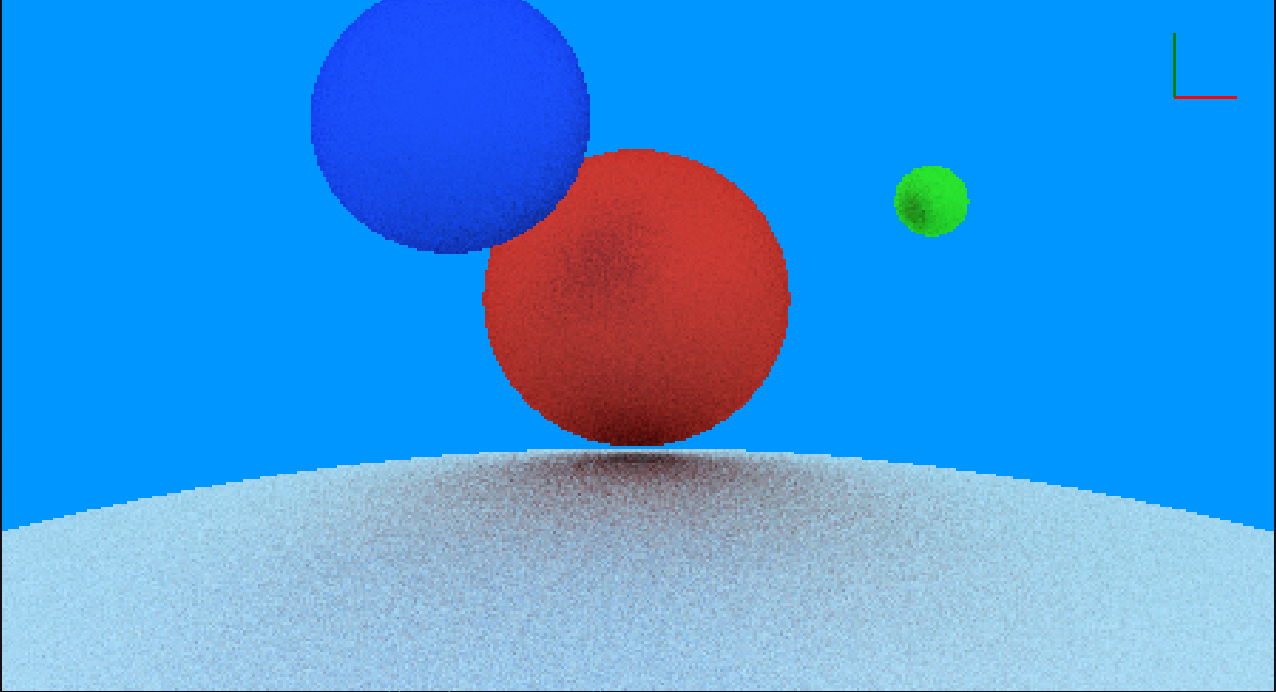
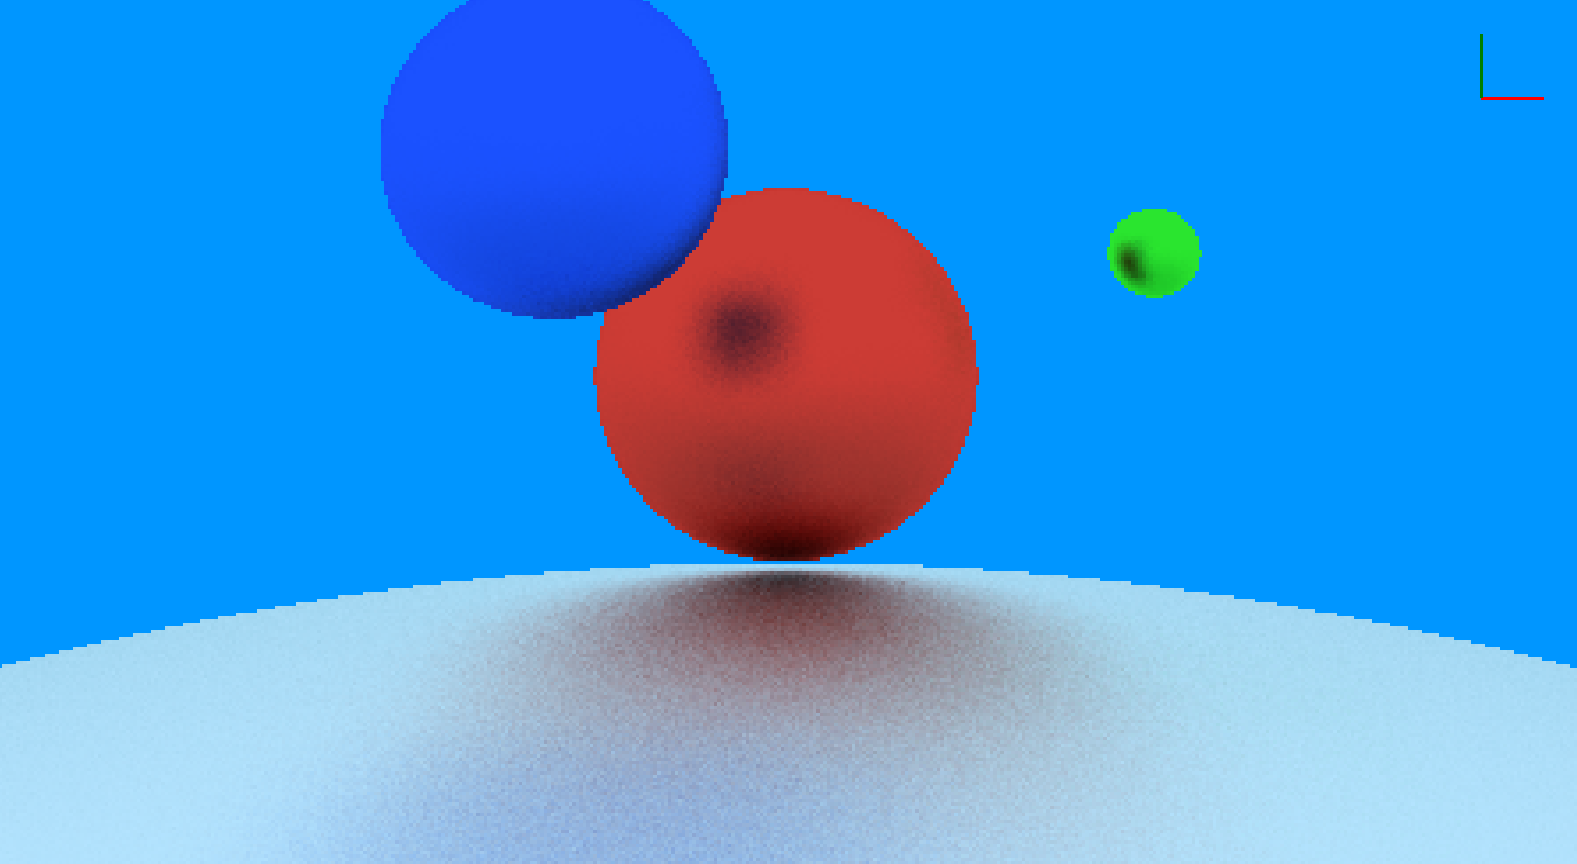
debuguing

diff --git a/src/Window.cs b/src/Window.cs
@@ -22,7 +22,7 @@ public class Window : Form {
         Bitmap bitmap = new Bitmap(imagePath);
         this.Icon = Icon.FromHandle(bitmap.GetHicon());
 
-        this.viewport = new vec2(128*3.5f,72*3.5f);
+        this.viewport = new vec2(128,72);
         this.aspectratio = new vec2(this.ClientSize.Width, this.ClientSize.Height) / this.viewport;
 
         this.Paint += (sender, e) => repaint(e.Graphics);
@@ -54,7 +54,7 @@ public class Window : Form {
     public void repaint(Graphics g) {
         if(App.camara.moving){
             for (int i = 0; i < lastp.Length; i++) lastp[i] = new vec3(0, 0, 0);
-            this.frames = 0;
+            this.frames = 1;
         }
 
         this.frames++;
@@ -74,6 +74,13 @@ public class Window : Form {
                 this.lastp[index] += new vec3(p.color.R, p.color.G, p.color.B);
 
                 Color thecolor = Color.FromArgb(255,(int)(this.lastp[index].x/this.frames),(int)(this.lastp[index].y/this.frames),(int)(this.lastp[index].z/this.frames));
+
+                /*App.window.print(g, Color.FromArgb(255, 50, 0, 150), 
+                    App.camara.project(App.camara.ray[index].direction+App.camara.ray[index].origin), 
+                    new vec2((64 / App.camara.distance(App.camara.ray[index].direction+App.camara.ray[index].origin) * 0.1f),
+                        (64 / App.camara.distance(App.camara.ray[index].direction+App.camara.ray[index].origin) * 0.1f)
+                    )
+                );*/
 
                 if(p.color != Color.Black)
                     this.print(g, thecolor, invertId * this.aspectratio - this.aspectratio, this.aspectratio);

diff --git a/src/Shader.cs b/src/Shader.cs
@@ -11,12 +11,6 @@ App.camara.castRays(id);
 int index = (int)(id.x+id.y*App.window.viewport.x);
 Ray currentr = App.camara.ray[index];
 
-/*App.window.print(g, Color.FromArgb(255, 50, 0, 150), 
-    this.project(currentr.direction+currentr.origin), 
-    new vec2((64 / this.distance(currentr.direction+currentr.origin) * 0.1f),
-        (64 / App.camara.distance(currentr.direction+currentr.origin) * 0.1f)
-    )
-);*/
 
 App.window.pixel[index].color = Color.Black;
 vec3 skycolor = new vec3(0.8f,0.9f,1);
@@ -47,7 +41,7 @@ for(int j = 0;j < bounces;j++){
     } else {
         vec3 normal = (currentr.f(time[t]) - App.sphere[t].position).unit();
 
-        vec3 col = (App.sphere[t].material.color*skycolor).cunit();
+        vec3 col = (1/255)*(App.sphere[t].material.color*skycolor);
         pcolor = importance*col*pcolor;
 
         App.window.pixel[index].color = Color.FromArgb(255,(int)col.x*255,(int)col.y*255,(int)col.z*255);

diff --git a/src/App.cs b/src/App.cs
@@ -10,7 +10,7 @@ public class App {
     public static Stopwatch stopwatch = new Stopwatch();
 
     public static Sphere[] sphere = {
-        new Sphere(new vec3(0,6,15*2),20,new vec3(255,35,25)),
+        new Sphere(new vec3(0,6,15*2),20,new vec3(255,35,35)),
         new Sphere(new vec3(20*2,20,20*2),5,new vec3(35,255,25)),
         new Sphere(new vec3(-10*2,25,-10*2),15,new vec3(25,60,255)),
         new Sphere(new vec3(0,-320,20*2),305,new vec3(255,255,255))

diff --git a/src/Material.cs b/src/Material.cs
@@ -1,6 +1,6 @@
 public class Material {
 	public vec3 color;
-	public float roughnes = 0;
+	public float roughnes = 0.9f;
 	public float emissive = 0;
 
 	public vec3 getEmission(){
